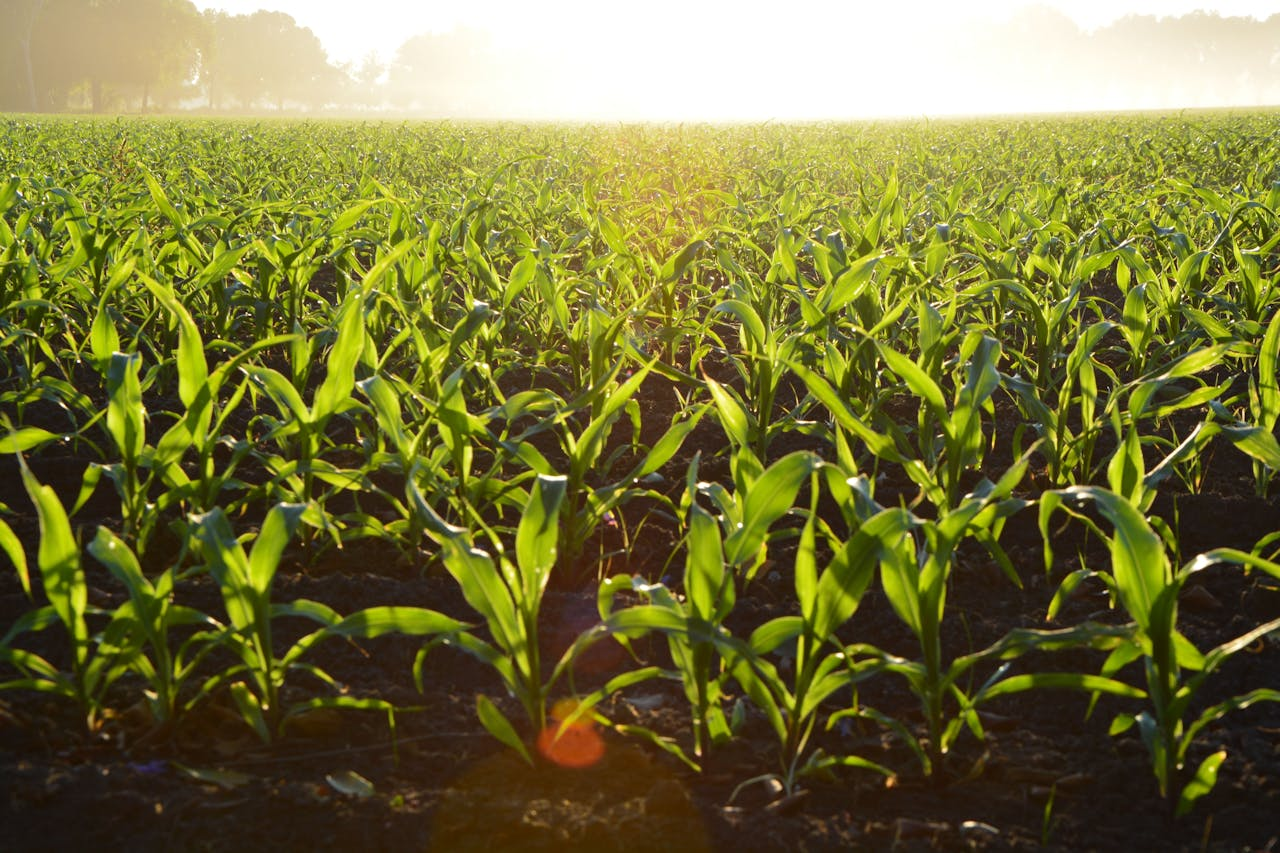
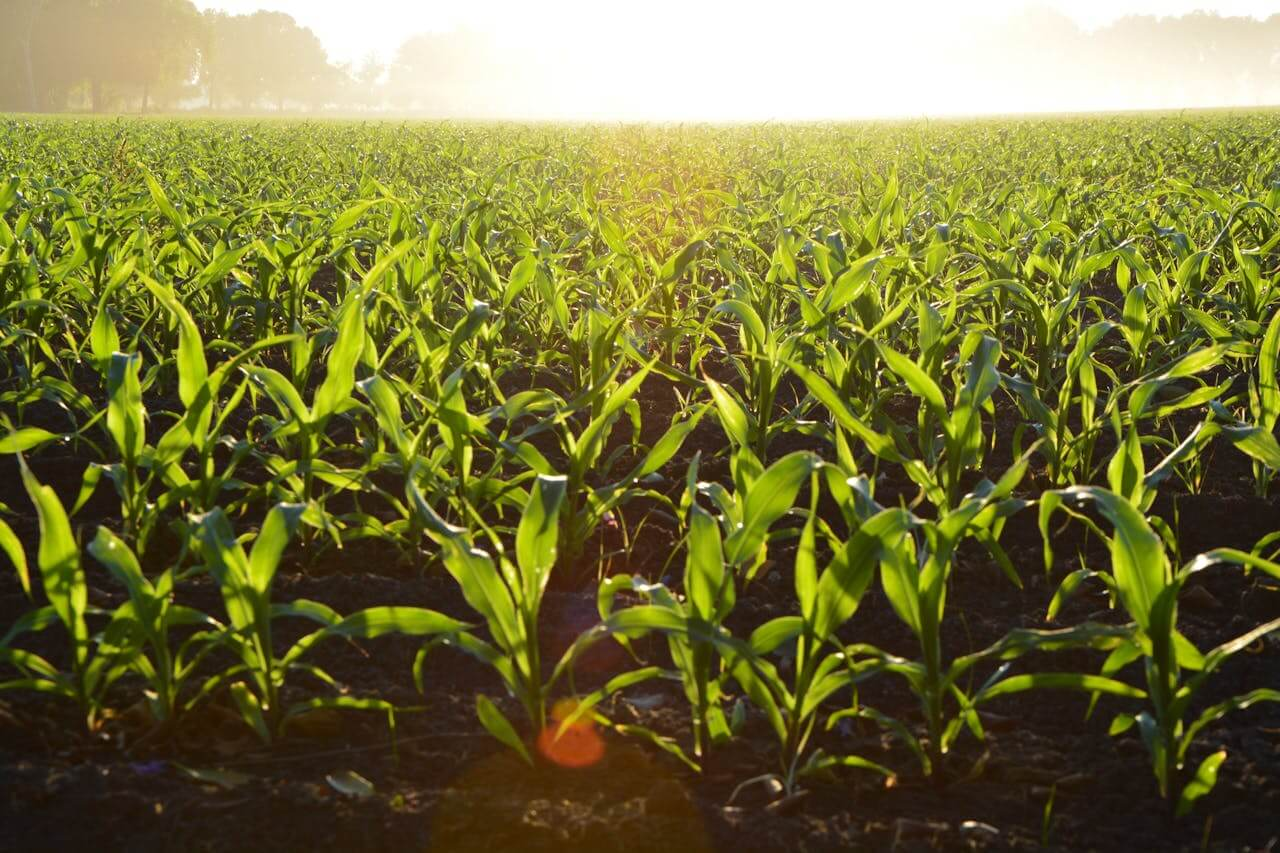
image optimization

Changed region(s): [[0.6562, 0.3658, 0.6875, 0.3962], [0.625, 0.2438, 0.6562, 0.2743]]

diff --git a/src/app/about/page.tsx b/src/app/about/page.tsx
@@ -85,7 +85,7 @@ const Index = () => {
             <div
               className="w-52 h-52 rounded-full bg-cover"
               style={{
-                backgroundImage: "url('/assets/images/team/farm-team1.jpeg')",
+                backgroundImage: "url('/assets/images/team/farm-team1-min.jpeg')",
               }}
             ></div>
 
@@ -99,7 +99,7 @@ const Index = () => {
             <div
               className="w-52 h-52 rounded-full bg-cover"
               style={{
-                backgroundImage: "url('/assets/images/team/farm-team2.jpeg')",
+                backgroundImage: "url('/assets/images/team/farm-team2-min.jpeg')",
               }}
             ></div>
 

diff --git a/src/app/page.tsx b/src/app/page.tsx
@@ -368,7 +368,7 @@ function Index() {
       <div
         className="hero h-[85vh] bg-cover"
         style={{
-          backgroundImage: "url(/assets/images/tractor-field.jpg",
+          backgroundImage: "url(/assets/images/tractor-field-min.jpg",
         }}
       >
         <div className="hero-overlay bg-opacity-80 bg-black"></div>
